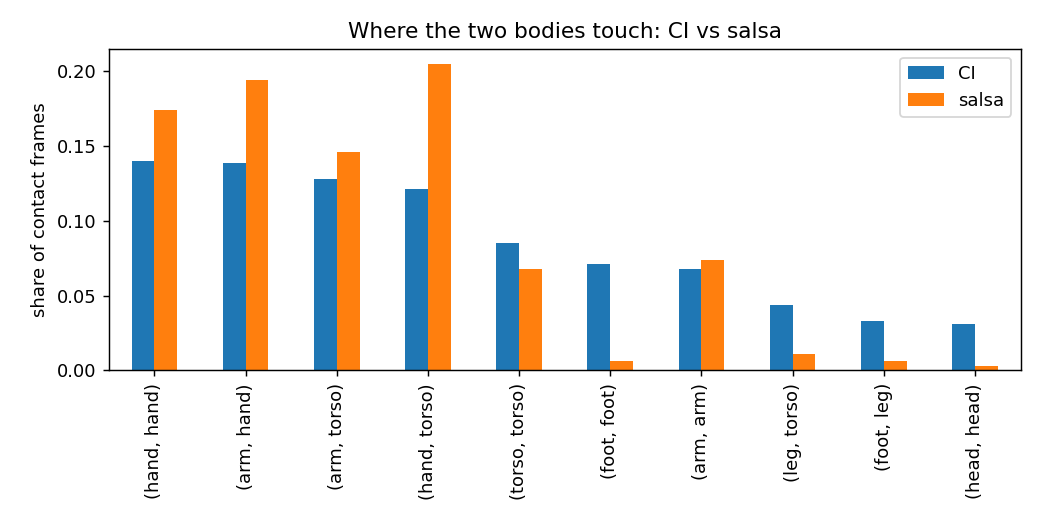
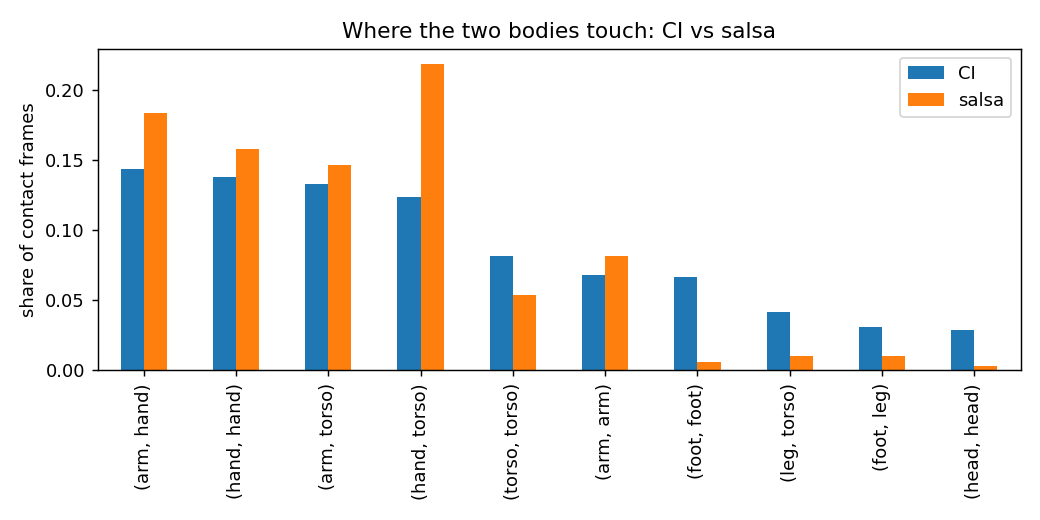
fix: limb contacts skip the depth gate; rolling-vs-gripping found invalid in 2-D (fails the salsa check)

diff --git a/rolling_contact.py b/rolling_contact.py
@@ -9,9 +9,10 @@ For every contact bout (>= 1 s of continuous contact, depth-gated, see describe.
   spread        radius of the body-frame locations (median distance to their median, bl)
   regions       distinct body regions visited for >= 0.3 s (mode-filtered labels)
   hand_share    fraction of the bout in which the dominant contact region of either dancer is a hand
-A bout is labelled ROLL when net travel >= ROLL_TRAVEL_BL on at least one body or the contact passes through
->= ROLL_REGIONS regions; GRIP when net travel < GRIP_TRAVEL_BL and spread < GRIP_TRAVEL_BL on both bodies
-and a hand is involved most of the time; otherwise MIXED.
+Locations are on a canonical body chart (T-pose, body lengths): the contact point is mapped to its segment
+and position along it, so a hand grip keeps its coordinate however the arm moves. A bout is ROLL when the
+contact travels >= ROLL_TRAVEL_BL over at least one body surface, HOLD when it travels and spreads
+< GRIP_TRAVEL_BL on both bodies (a grip, a lean, a held carry), otherwise MIXED.
 Thresholds are first guesses to be checked on the sheets (check_roll_*.jpg / check_grip_*.jpg) and,
 later, against salsa (CoMPAS3D), where contact is mostly hand holds.
 
@@ -39,13 +40,13 @@ def bouts_for_clip(vid: str):
     tr = load_tracks(f"outputs/{vid}/{vid}_tracks.npz"); fps = float(tr.meta["fps"])
     kA, kB = tr.kpts[:, 0].astype(float), tr.kpts[:, 1].astype(float); both = tr.present.all(1)
     sA, sB = np.nanmedian(D.trunk_len(kA)), np.nanmedian(D.trunk_len(kB)); s = (sA + sB) / 2
-    _, _, dpx, _, _ = D.contact_points(kA, kB)
-    contact = median_filter((np.nan_to_num(dpx / s, nan=9) < CONTACT_BL) & D.same_depth(kA, kB, sA, sB), size=5).astype(bool) & both
+    _, _, dpx, r1, r2 = D.contact_points(kA, kB)
+    limb = np.array([(a in ("hand", "arm")) or (b in ("hand", "arm")) for a, b in zip(r1, r2)])   # see describe_duets: no depth gate for hand holds
+    contact = median_filter((np.nan_to_num(dpx / s, nan=9) < CONTACT_BL) & (D.same_depth(kA, kB, sA, sB) | limb), size=5).astype(bool) & both
     pA, pB, rA, rB = D.contact_centroids(kA, kB, CONTACT_BL * s)
-    # per-frame trunk length (rolling median) so that a body turning away from the camera keeps its units
-    LA = pd.Series(D.trunk_len(kA)).rolling(int(fps), center=True, min_periods=3).median().to_numpy()
-    LB = pd.Series(D.trunk_len(kB)).rolling(int(fps), center=True, min_periods=3).median().to_numpy()
-    locA, locB = D.body_frame(kA, pA, LA[:, None]), D.body_frame(kB, pB, LB[:, None])
+    # contact location on the canonical body chart (surface coordinate): a grip stays put even when the arm
+    # moves; only travel over the body surface counts (the trunk-frame version called salsa hand holds "rolls")
+    locA, locB = D.contact_surface(kA, kB, CONTACT_BL * s)
     rows = []
     for a, b in D.episodes(contact, fps, min_s=MIN_BOUT_S, merge_gap_s=0.3):
         rec = dict(video=vid, start_s=a / fps, end_s=b / fps, dur_s=(b - a) / fps, mid_frame=(a + b) // 2)
@@ -68,12 +69,9 @@ def bouts_for_clip(vid: str):
             rec[f"main_region_{lab}"] = r.mode().iat[0] if r.notna().any() else None
         hands = pd.Series([(x == "hand") or (y == "hand") for x, y in zip(rA[a:b], rB[a:b])])
         rec["hand_share"] = float(hands.mean())
-        travel = np.nanmax([rec["net_travel_A_bl"], rec["net_travel_B_bl"], 0]); nreg = max(rec["regions_A"], rec["regions_B"])
-        # a roll travels over the body, not along a hand-hold: require the contact to be mostly off the hands
-        travel = travel if rec["hand_share"] < 0.5 else 0.0
+        travel = np.nanmax([rec["net_travel_A_bl"], rec["net_travel_B_bl"], 0])
         still = all(np.nan_to_num(rec[k], nan=9) < GRIP_TRAVEL_BL for k in ("net_travel_A_bl", "net_travel_B_bl", "spread_A_bl", "spread_B_bl"))
-        rec["label"] = ("ROLL" if (travel >= ROLL_TRAVEL_BL or nreg >= ROLL_REGIONS)
-                        else "GRIP" if (still and rec["hand_share"] > 0.5) else "MIXED")
+        rec["label"] = "ROLL" if travel >= ROLL_TRAVEL_BL else "HOLD" if still else "MIXED"
         rows.append(rec)
     return rows, tr
 
@@ -110,10 +108,10 @@ def main():
         r, tr = bouts_for_clip(v); rows += r; TR[v] = tr
     B = pd.DataFrame(rows); B.to_csv(OUT / "bouts.csv", index=False)
     pc = B.groupby("video").agg(bouts=("label", "size"), roll=("label", lambda x: (x == "ROLL").mean()),
-                                grip=("label", lambda x: (x == "GRIP").mean()), median_dur_s=("dur_s", "median"),
+                                hold=("label", lambda x: (x == "HOLD").mean()), median_dur_s=("dur_s", "median"),
                                 median_travel_bl=("net_travel_A_bl", "median"), hand_share=("hand_share", "median")).round(2)
     pc.to_csv(OUT / "per_clip.csv")
-    for lab in ("ROLL", "GRIP", "MIXED"):
+    for lab in ("ROLL", "HOLD", "MIXED"):
         sub = B[B.label == lab].sample(min(6, (B.label == lab).sum()), random_state=0) if (B.label == lab).any() else B.iloc[:0]
         strips = [s for s in (strip(r.video, TR[r.video], r.start_s, r.end_s) for r in sub.itertuples()) if s is not None]
         if strips:

diff --git a/src/analysis/describe.py b/src/analysis/describe.py
@@ -247,3 +247,44 @@ def contact_centroids(kA: np.ndarray, kB: np.ndarray, thresh_px: np.ndarray | fl
     regA = np.array([REGIONS[i] for i in MA.argmax(1)], dtype=object); regB = np.array([REGIONS[i] for i in MB.argmax(1)], dtype=object)
     regA[~has] = None; regB[~has] = None
     return cA, cB, regA, regB
+
+
+# Canonical body chart (T-pose, body lengths, pelvis at the origin, +y up). A contact point is mapped to
+# (segment, position along it) and then to this chart, so a grip that stays on the same spot of the hand
+# keeps the same chart coordinate however the arm moves; only travel over the body surface moves it.
+TEMPLATE = {0: (0, 1.45), 1: (-0.06, 1.5), 2: (0.06, 1.5), 3: (-0.13, 1.45), 4: (0.13, 1.45),
+            5: (-0.4, 1.0), 6: (0.4, 1.0), 7: (-0.85, 1.0), 8: (0.85, 1.0), 9: (-1.3, 1.0), 10: (1.3, 1.0),
+            11: (-0.2, 0.0), 12: (0.2, 0.0), 13: (-0.22, -1.05), 14: (0.22, -1.05), 15: (-0.22, -2.05), 16: (0.22, -2.05)}
+
+
+def _closest_points_t(p1, p2, q1, q2):
+    """Like _closest_points but also returns the positions along each segment (0..1)."""
+    t = np.linspace(0, 1, 11)
+    P = p1[:, None, :] + t[None, :, None] * (p2 - p1)[:, None, :]
+    Q = q1[:, None, :] + t[None, :, None] * (q2 - q1)[:, None, :]
+    d = np.linalg.norm(P[:, :, None, :] - Q[:, None, :, :], axis=-1)
+    flat = d.reshape(len(d), -1).argmin(1); i, j = flat // 11, flat % 11; n = np.arange(len(d))
+    return t[i], t[j], d[n, i, j]
+
+
+def contact_surface(kA: np.ndarray, kB: np.ndarray, thresh_px):
+    """Per frame, the contact location on each body in the canonical body chart (weighted mean over all
+    segment pairs closer than thresh_px). Returns (chartA (N,2), chartB (N,2))."""
+    N = len(kA); th = np.broadcast_to(np.asarray(thresh_px, float), (N,))
+    sA = np.zeros((N, 2)); sB = np.zeros((N, 2)); W = np.zeros(N)
+    T = {k: np.array(v, float) for k, v in TEMPLATE.items()}
+    for ra, a1, a2 in ALL_SEGMENTS:
+        for rb, b1, b2 in ALL_SEGMENTS:
+            ok = (kA[:, [a1, a2], 2] >= CONF).all(1) & (kB[:, [b1, b2], 2] >= CONF).all(1)
+            if not ok.any():
+                continue
+            idx = np.flatnonzero(ok)
+            ta, tb, d = _closest_points_t(kA[idx, a1, :2], kA[idx, a2, :2], kB[idx, b1, :2], kB[idx, b2, :2])
+            w = np.clip(th[idx] - d, 0, None)
+            ca = T[a1][None] + ta[:, None] * (T[a2] - T[a1])[None]; cb = T[b1][None] + tb[:, None] * (T[b2] - T[b1])[None]
+            sA[idx] += w[:, None] * ca; sB[idx] += w[:, None] * cb; W[idx] += w
+    out = np.full((N, 2), np.nan), np.full((N, 2), np.nan); has = W > 0
+    out[0][has] = sA[has] / W[has, None]; out[1][has] = sB[has] / W[has, None]
+    # fold left/right: pose models often swap sides, and changing hands is not travel over the body surface
+    out[0][:, 0] = np.abs(out[0][:, 0]); out[1][:, 0] = np.abs(out[1][:, 0])
+    return out

diff --git a/compare_genres.py b/compare_genres.py
@@ -35,7 +35,7 @@ def main():
             b = pd.DataFrame(bouts)
             row.update(genre=genre, n_bouts=len(b),
                        roll_share=float((b.label == "ROLL").mean()) if len(b) else np.nan,
-                       grip_share=float((b.label == "GRIP").mean()) if len(b) else np.nan,
+                       hold_share=float((b.label == "HOLD").mean()) if len(b) else np.nan,
                        hand_share=float(b.hand_share.median()) if len(b) else np.nan,
                        hand_hand_share=float(np.mean([r == ("hand", "hand") for r in rg])) if len(rg) else np.nan,
                        torso_share=float(np.mean(["torso" in r for r in rg])) if len(rg) else np.nan)
@@ -43,7 +43,7 @@ def main():
             print(f"[compare] {genre} {v}: contact {row['contact_frac']:.0%} weight-share/min {row['weight_share_per_min']:.1f} "
                   f"hand-hand {row['hand_hand_share']:.0%} torso {row['torso_share']:.0%} floor {row['frac_floor']:.0%}")
     df = pd.DataFrame(rows); df.to_csv(OUT / "per_clip.csv", index=False)
-    cols = ["contact_frac", "weight_share_per_min", "frac_floor", "frac_standing", "hand_hand_share", "torso_share", "roll_share", "grip_share"]
+    cols = ["contact_frac", "weight_share_per_min", "frac_floor", "frac_standing", "hand_hand_share", "torso_share", "roll_share", "hold_share"]
     tab = df.groupby("genre")[cols].median().T.round(3)
     tests = {c: stats.mannwhitneyu(df[df.genre == "CI"][c].dropna(), df[df.genre == "salsa"][c].dropna()).pvalue
              if df[df.genre == "salsa"][c].notna().sum() >= 2 else np.nan for c in cols}
@@ -55,7 +55,7 @@ def main():
     md = [f"# CI vs salsa with the same video pipeline ({len(ci)} CI clips, {len(salsa)} salsa clips)\n",
           "Medians per genre (each clip one observation). Salsa = CoMPAS3D renders (CC BY-NC 4.0), first 60 s.\n",
           tab.to_markdown(), "\n\n## Contact regions (pooled share of contact frames)\n", reg.to_markdown(),
-          "\n\nKnown-answer expectations for salsa: hand-hand dominant, standing ~100 %, weight sharing ~0, GRIP > ROLL."]
+          "\n\nKnown-answer expectations for salsa: hand-hand dominant, standing ~100 %, weight sharing ~0, HOLD > ROLL."]
     (OUT / "report.md").write_text("\n".join(md)); print("\n".join(md))
 
 

diff --git a/describe_duets.py b/describe_duets.py
@@ -44,7 +44,10 @@ def clip_analysis(vid: str):
     sA, sB = np.nanmedian(D.trunk_len(kA)), np.nanmedian(D.trunk_len(kB)); s = (sA + sB) / 2
     dmin, rA, rB, _ = D.contact_regions(kA, kB, s, CONTACT_BL)
     dmin[~both] = np.nan
-    depth_ok = D.same_depth(kA, kB, sA, sB)
+    # depth gate only for body-to-body overlaps: an arm's-length hand hold between dancers at different
+    # depths is real contact (salsa known-answer check, AUDIT 40)
+    limb = np.array([(a in ("hand", "arm")) or (b in ("hand", "arm")) for a, b in zip(rA, rB)])
+    depth_ok = D.same_depth(kA, kB, sA, sB) | limb
     contact = median_filter((np.nan_to_num(dmin, nan=9) < CONTACT_BL) & depth_ok, size=5).astype(bool) & both
     lvA, lvB = D.level(kA, sA), D.level(kB, sB)
     aer = D.aerial_support(kA, kB, sA, sB, contact)

diff --git a/AUDIT.md b/AUDIT.md
@@ -87,3 +87,4 @@ what was changed, and what remains open. The old scripts live in git history (co
 | 38 | Geometry-based duet descriptors validated by eye: contact with a depth gate 12/16 plausible; "weight sharing" (one body over the other: pelvis above the partner's shoulders and over their body) ~10/12 — "aerial lift" (feet off the floor) is NOT reliable in 2-D (perspective and misplaced ankles of inverted bodies); unsupervised 1-s pose vocabulary yields interpretable states (standing in contact, apart, near without touching, crouched, floor, bent over, wide stance). | `describe_duets.py`, `outputs/describe/` |
 | 39 | Rolling vs gripping: the single closest-point contact location flips between segments and made 103/104 bouts look like rolls; with a weighted contact centroid, trimmed bout edges and per-frame trunk scale, GRIP detections are correct and ROLL ~3-4/6 plausible. Needs 3-D pose and a hand-labelled set before use. | `rolling_contact.py`, `outputs/rolling/` |
 | 40 | Known-answer check against salsa (CoMPAS3D renders, one camera panel, same pipeline; 3 clips): salsa standing 98 %, floor 0 %, weight sharing 0/min, ROLL 0 % — as expected (CI: 71 %, 11 %, 3.2/min, 40 %); hand-involved contacts 57 % vs 40 % in CI, while CI has more foot/leg/head contacts. **Fails**: salsa contact only 27 % and no GRIP bouts, although partners hold hands most of the time — the depth gate rejects arm's-length holds between dancers at different depths in a frontal view. The contact detector is conservative; hand holds need a gate that does not use foot height. | `compare_genres.py`, `outputs/compare_genres/` |
+| 41 | **Rolling vs gripping fails the salsa known-answer check.** After removing the depth gate for limb contacts, salsa contact rises to 74 % (expected: hands held most of the time). But the ROLL label fires on salsa too: 80 % of bouts with contact located in each trunk frame (a held hand moves relative to the trunk when the arm moves), still 60 % with a canonical body-chart surface coordinate folded left/right (CI 43 %). With 17 keypoints there is no body surface: the weighted contact location jumps between forearms, hands and upper arms as partners turn under the arms. Rolling vs gripping is not measurable with 2-D skeletons; the next step is contact on a 3-D body mesh (SMPL-family fit), validated first on CoMPAS3D, which ships SMPL-X meshes. The roll/hold labels are kept in the code but must not be reported. | `rolling_contact.py`, `outputs/compare_genres/` |

diff --git a/outputs/compare_genres/report.md b/outputs/compare_genres/report.md
@@ -4,30 +4,30 @@ Medians per genre (each clip one observation). Salsa = CoMPAS3D renders (CC BY-N
 
 |                      |    CI |   salsa |   mann_whitney_p |
 |:---------------------|------:|--------:|-----------------:|
-| contact_frac         | 0.604 |   0.27  |           0.0703 |
+| contact_frac         | 0.637 |   0.744 |           0.233  |
 | weight_share_per_min | 3.223 |   0     |           0.0526 |
 | frac_floor           | 0.107 |   0     |           0.0331 |
 | frac_standing        | 0.71  |   0.979 |           0.0484 |
-| hand_hand_share      | 0.129 |   0.162 |           0.2945 |
-| torso_share          | 0.4   |   0.45  |           0.1363 |
-| roll_share           | 0.4   |   0     |           0.0555 |
-| grip_share           | 0     |   0     |           0.6378 |
+| hand_hand_share      | 0.128 |   0.158 |           0.633  |
+| torso_share          | 0.403 |   0.441 |           0.1802 |
+| roll_share           | 0.429 |   0.6   |           0.0501 |
+| hold_share           | 0     |   0     |           0.4898 |
 
 
 ## Contact regions (pooled share of contact frames)
 
 |                    |    CI |   salsa |
 |:-------------------|------:|--------:|
-| ('hand', 'hand')   | 0.14  |   0.174 |
-| ('arm', 'hand')    | 0.139 |   0.194 |
-| ('arm', 'torso')   | 0.128 |   0.146 |
-| ('hand', 'torso')  | 0.121 |   0.205 |
-| ('torso', 'torso') | 0.085 |   0.068 |
-| ('foot', 'foot')   | 0.071 |   0.006 |
-| ('arm', 'arm')     | 0.068 |   0.074 |
-| ('leg', 'torso')   | 0.044 |   0.011 |
-| ('foot', 'leg')    | 0.033 |   0.006 |
-| ('head', 'head')   | 0.031 |   0.003 |
+| ('arm', 'hand')    | 0.144 |   0.184 |
+| ('hand', 'hand')   | 0.138 |   0.158 |
+| ('arm', 'torso')   | 0.133 |   0.147 |
+| ('hand', 'torso')  | 0.124 |   0.219 |
+| ('torso', 'torso') | 0.082 |   0.054 |
+| ('arm', 'arm')     | 0.068 |   0.082 |
+| ('foot', 'foot')   | 0.067 |   0.006 |
+| ('leg', 'torso')   | 0.042 |   0.01  |
+| ('foot', 'leg')    | 0.031 |   0.01  |
+| ('head', 'head')   | 0.029 |   0.003 |
 
 
-Known-answer expectations for salsa: hand-hand dominant, standing ~100 %, weight sharing ~0, GRIP > ROLL.
+Known-answer expectations for salsa: hand-hand dominant, standing ~100 %, weight sharing ~0, HOLD > ROLL.
